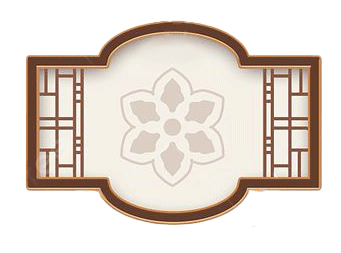
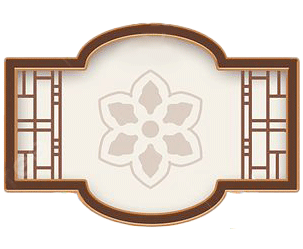
app quiz

diff --git a/src/App.css b/src/App.css
@@ -1,4 +1,11 @@
 @charset "utf-8";
+@import url('https://fonts.googleapis.com/css2?family=PT+Serif:ital,wght@0,400;0,700;1,400;1,700&family=Yeon+Sung&display=swap');
+
+.yeon-sung-regular {
+  font-family: "Yeon Sung", system-ui;
+  font-style: normal;
+}
+
 *{ margin: 0; padding: 0;}
 a{ text-decoration: none; color: inherit;}
 ol,ul{ list-style: none;}
@@ -14,6 +21,7 @@ ol,ul{ list-style: none;}
 }
 /* app */
 #app{
+  overflow: hidden;
   background-image:url(./images/korean\ traditional\ pattern\ to\ the_904567.png);
   background-size: cover;
   background-position: center;
@@ -21,7 +29,7 @@ ol,ul{ list-style: none;}
   height: 640px;
   border: 1px solid #222;
   border-radius: 1rem;
-  padding: 1rem;
+  /* padding: 1rem; */
   display: flex;
   justify-content: center;
   align-items: center;
@@ -32,59 +40,115 @@ ol,ul{ list-style: none;}
   }
 }
 #categories{
+  background-image: url(./images/744d571ff6d5a9ab801693444d8d64e0.png);
+  width: 360px;
+  height: 300px;
+  background-position: center;
+  background-size: cover;
+  display: flex;
+  justify-content: center;
+  align-items: center;
   position: relative;
-  h2{text-align: center;
-  position:absolute;
-  transform: translateX(-50%);
-  top: 150px;
-  left: 180px;
+  h2{
+    text-align: center;
+    font-weight: 400;
+    font-size: 40px;
   }
   ul{
-    background-image: url(./images/744d571ff6d5a9ab801693444d8d64e0.png);
-    width: 360px;
-    height: 300px;
-    background-size: cover;
-    background-position: center;
-    display: flex;
-    justify-content: center;
+    position: absolute;
+    top: 330px;
     li{
+      box-shadow: 0px 4px 7px 0px #999;
+      display: flex;
+      justify-content: center;
+      align-items: center;
+      width: 100px;
+      height: 50px;
       cursor: pointer;
       margin: 0.5rem 0;
+      background-color: #FFE1A1;
+      border-radius: 16px;
+      font-size: 16px;
+      font-weight: bolder;
+      transition: 0.5s;
+      &:hover{
+      background-color: #ffba6b;}
     }
   }
 }
 
 #quiz-page{
   height: 100%;
-  h3{}
+  display: flex;
+  justify-content: center;
+  align-items: center;
+  flex-direction: column;
   p{ 
     margin-bottom: 1rem;
   }
   p:nth-of-type(1){
-    text-align: center;
-    line-height: 220px;
+    display: flex;
+    justify-content: center;
+    align-items: center;
     font-weight: bolder;
     width: 360px;
-    height: 220px;
+    height: 250px;
     background-image: url(./images/744d571ff6d5a9ab801693444d8d64e0.png);
     background-position: center;
     background-size: cover;
+    font-size: 24px;
+    span{
+      background-color: rgba(255,255,255,0.8);
+    }
   }
   .choices{
     width: 100%;
+    height: 205px;
       display: flex;
       justify-content: center;
       flex-direction: column;
       align-items: center;
     li{
+      cursor: pointer;
       margin-top: 0.5rem;
       padding: 0.4rem;
       border-radius: 1rem;
       box-shadow: 0 2px 6px 0;
       width: 280px;
       background-color: #FFE1A1;
+      transition: 0.5s;
+      &:hover{
+        background-color: #fff4db;
+      }
     }
   }
+  .show{
+    background-color: #FFFCE6;
+    transition: 0.5s;
+    box-shadow: 0px 4px 7px 0px #999;
+  }
+  .noshow{
+    background-color: #EDEBB9;
+    box-shadow: 0px 4px 7px 0px #999;
+  }
+  .indicator{
+    display: flex;
+    justify-content: center;
+    align-items: center;
+    background-color: #E0DCBF;
+    width: 90%;
+    height: 20px;
+    padding: 8px 0;
+    border-radius: 12px;
+    margin-top: 50px;
+    li{
+      width: 60px;
+      height: 15px;
+      margin: 0 6px;
+      border-radius: 24px;
+    }
+  }
+
 }
 
 #result{
@@ -99,17 +163,50 @@ ol,ul{ list-style: none;}
   position: relative;
   p{
     position: absolute;
-    top: 0;
+    top: -20px;
     display: inline-block;
+    font-weight: 400;
+    font-size: 40px;
+  }
+  .score{
+    font-size: 50pt;
+    font-family: "PT Serif", serif;
+    font-weight: 700;
+    font-style: italic;
   }
   button{
+    cursor: pointer;
+    z-index: 20;
+    width: 100px;
+    height: 50px;
     position: absolute;
-    top: 300px;
+    top: 330px;
     background-color: #FFE1A1;
-    padding: 0.8rem 0.3rem;
     border-radius: 16px;
+    font-size: 16px;
+    font-weight: bolder;
+    box-shadow: 0px 4px 7px 0px #999;
+    border: 0px;
+    transition: 0.5s;
+    &:hover{
+      background-color: #ffba6b;
+    }
+  }
+  img{
+    position: absolute;
+    width: 300px;
+    bottom: -175px;
+
+  }
+  .left{
+    left: -50px;
+  }
+  .right{
+    width: 200px;
+    right: -30px;
   }
 }
+
 
 @media all and (max-width:360px) {
   #app{

diff --git a/src/components/Results.js b/src/components/Results.js
@@ -1,8 +1,26 @@
-const Results = ({onReStart}) => {
+
+import gold from "../images/first.png";
+import silver from "../images/sec.png";
+import bronze from "../images/threed.png";
+
+const Results = ({onReStart,score}) => {
+  let scoreImg = "";
+
+if(score == '100'|| score =='80'){
+  scoreImg = gold;
+}else if(score == '60'|| score =='40'){
+  scoreImg = silver;
+}else if(score == '20'|| score =='0'){
+  scoreImg = bronze;
+}
+
   return (
     <div id="result">
-      <p>고생하셨습니다</p>
-      <button onClick={onReStart}>다시시작</button>
+      <p className="yeon-sung-regular">고생하셨습니다</p>
+      <span className="score">{score}</span>
+      <button onClick={onReStart}>재시작</button>
+      <img className="left"src={scoreImg}></img>
+      <img className="right" src={scoreImg}></img>
     </div>
   )
 }

diff --git a/src/components/QuizPage.js b/src/components/QuizPage.js
@@ -16,8 +16,7 @@ const QuizPage = ({quizes,onFinish,onScore,score}) => {
   }
   return (
     <div id="quiz-page">
-      <div>({current+1}/{quizes.length})</div>
-      <p>{quizes[current].question}</p>
+      <p className="yeon-sung-regular"><span>{quizes[current].question}</span></p>
       <ul className="choices">
         {
           quizes[current].choices.map((item,idx)=>{
@@ -27,7 +26,15 @@ const QuizPage = ({quizes,onFinish,onScore,score}) => {
           })
         }
       </ul>
-      <p>Child Score : {score}</p>
+      <ul className="indicator">
+        {
+        quizes.map((item,idx)=>{
+          return (
+            <li className={idx<=current? "show":"noshow"}></li>
+          )
+        })
+        }
+      </ul>
     </div>
   )
 }

diff --git a/src/App.js b/src/App.js
@@ -9,6 +9,7 @@ const App = () => {
   const [filterQuiz,setfilterQuiz] = useState([]);
   const [finish,setFinish] = useState(false);
   const [score,setScore] = useState(0);
+  
   const onSelectCategory = (select)=>{
     setCategory(select);
     //quizData에서 선택한 카테고리의 문제만 새로 만듬.
@@ -44,10 +45,12 @@ const App = () => {
           score={score}
           />
       }
-      <p>APP SCORE:{score}</p>
       {
         finish && 
-        <Results onReStart={handleReStart}/>
+        <Results 
+          onReStart={handleReStart}
+          score={score}
+        />
       }
     </div>
   )

diff --git a/src/components/Categories.js b/src/components/Categories.js
@@ -1,14 +1,14 @@
 const Categories = ({categories,onSelect}) => {  
   return (
     <div id="categories">
-      <h2>순 우리말 맞추기</h2>
+      <h2 className="yeon-sung-regular">순 우리말 <br />맞추기</h2>
       <ul>
         {
           categories.map((item,idx)=>{
             return (
               <li key={idx}
                   onClick={()=>{onSelect(item)}}
-              >{item}</li>
+              >시작하기</li>
             )
           })
         }
